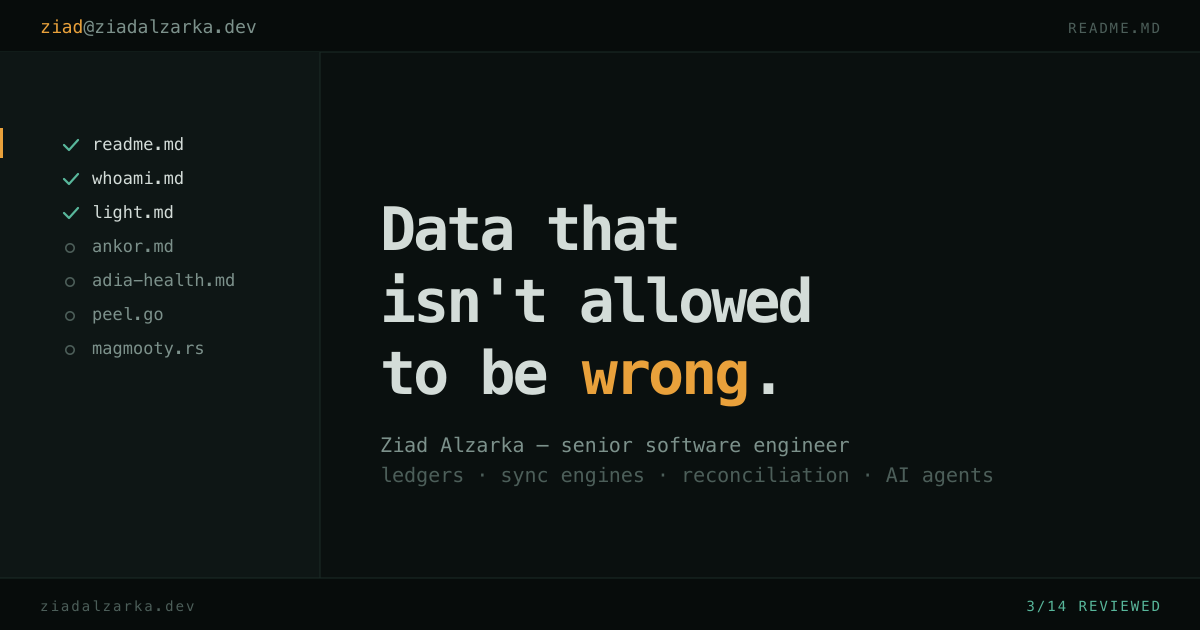
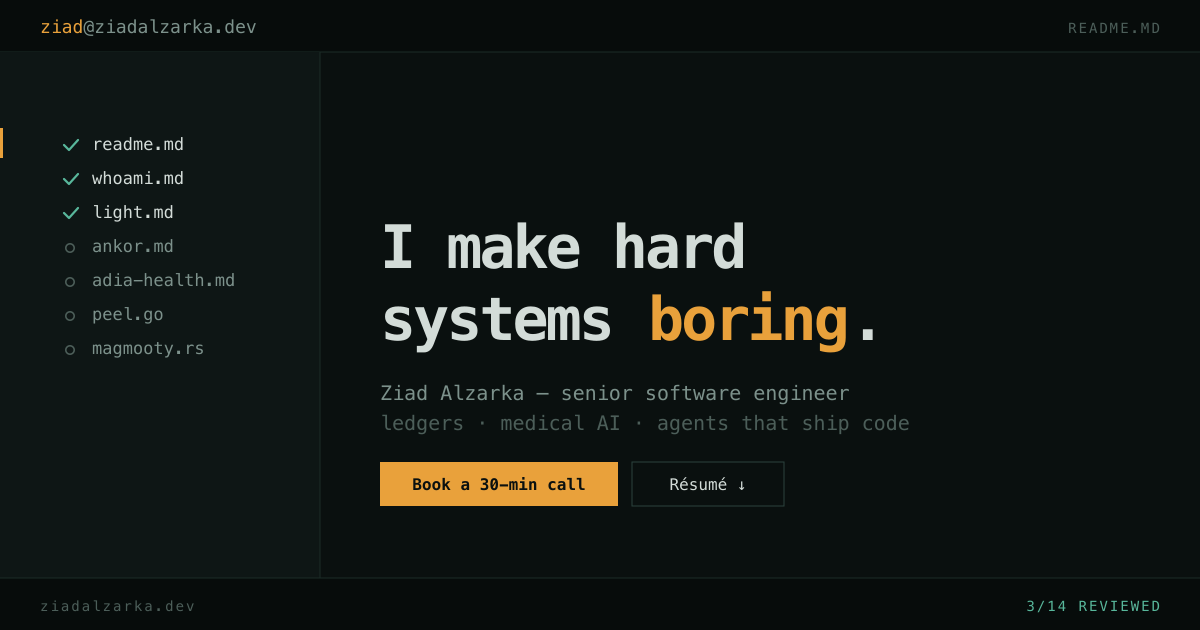
Lead with a call to action instead of a wall of text
The homepage opened on a thesis line and four paragraphs with nothing to
act on: .bar__cta was display:none above 56rem, so desktop had no call to
action, calendar link or resume button at all.

- New heading, one-sentence lede, and a button row: book a call, download
  the resume, email. b and r drive the first two from the keyboard.
- Resume and booking chips now sit in the top bar on desktop and in the
  fixed bottom bar on mobile, so the CTA never scrolls away.
- Drop the per-section bottom border, which doubled the rule already built
  into each section header, and make section padding top-only so removing
  it doesn't leave the gap behind.

Changed region(s): [[0.3083, 0.3317, 0.7708, 0.8143], [0.7708, 0.7238, 0.8017, 0.7841]]

diff --git a/src/styles/global.css b/src/styles/global.css
@@ -363,13 +363,11 @@ kbd {
 }
 
 .doc {
-  padding: clamp(2rem, 6vh, 3.75rem) 0;
-  border-bottom: 1px solid var(--line);
+  padding: clamp(2rem, 6vh, 3.75rem) 0 0;
   scroll-margin-top: 0;
 }
 
 .doc:last-child {
-  border-bottom: 0;
   padding-bottom: 40vh;
 }
 
@@ -552,7 +550,7 @@ kbd {
   letter-spacing: -0.055em;
   line-height: 1.03;
   color: var(--text);
-  max-width: 13ch;
+  max-width: 15ch;
   text-wrap: balance;
 }
 
@@ -572,6 +570,118 @@ kbd {
 .thesis__lede strong {
   color: var(--text);
   font-weight: 500;
+}
+
+/* ── primary actions ─────────────────────────────────────────── */
+
+.cta {
+  display: flex;
+  flex-wrap: wrap;
+  gap: 0.5rem;
+  margin-top: 1.9rem;
+}
+
+.cta__btn {
+  display: inline-flex;
+  align-items: center;
+  gap: 0.4rem;
+  padding: 0.55rem 1.05rem;
+  border: 1px solid var(--line-lit);
+  background: var(--bg-raise);
+  color: var(--text);
+  font-size: var(--step-ui);
+  text-decoration: none;
+  white-space: nowrap;
+}
+
+.cta__btn:hover {
+  border-color: var(--amber);
+  color: var(--amber);
+}
+
+.cta__btn--go {
+  background: var(--amber);
+  border-color: var(--amber);
+  color: var(--bg);
+  font-weight: 500;
+}
+
+.cta__btn--go:hover {
+  background: color-mix(in srgb, var(--amber) 82%, #fff);
+  border-color: color-mix(in srgb, var(--amber) 82%, #fff);
+  color: var(--bg);
+}
+
+.cta__btn--quiet {
+  background: none;
+  color: var(--text-dim);
+}
+
+@media (prefers-reduced-motion: no-preference) {
+  .cta__btn {
+    transition:
+      background 0.15s var(--ease),
+      border-color 0.15s var(--ease),
+      color 0.15s var(--ease);
+  }
+}
+
+.thesis__hint {
+  margin-top: 1.15rem;
+  font-size: var(--step-micro);
+  letter-spacing: 0.05em;
+  line-height: 2;
+  color: var(--text-faint);
+}
+
+.thesis__keys {
+  display: inline-block;
+  margin-left: 0.9rem;
+  white-space: nowrap;
+}
+
+/* ── bar chips ───────────────────────────────────────────────── */
+
+.chips {
+  display: flex;
+  align-items: center;
+  gap: 0.4rem;
+}
+
+.chip {
+  display: inline-flex;
+  align-items: center;
+  gap: 0.3rem;
+  padding: 0.2rem 0.65rem;
+  border: 1px solid var(--line-lit);
+  color: var(--text-dim);
+  text-decoration: none;
+  font-size: var(--step-micro);
+  letter-spacing: 0.1em;
+  text-transform: uppercase;
+  white-space: nowrap;
+}
+
+.chip:hover {
+  border-color: var(--amber);
+  color: var(--amber);
+}
+
+.chip--go {
+  background: var(--amber);
+  border-color: var(--amber);
+  color: var(--bg);
+  font-weight: 500;
+}
+
+.chip--go:hover {
+  background: color-mix(in srgb, var(--amber) 82%, #fff);
+  border-color: color-mix(in srgb, var(--amber) 82%, #fff);
+  color: var(--bg);
+}
+
+.chips--foot {
+  display: none;
 }
 
 /* ── hire / engagements ──────────────────────────────────────── */
@@ -685,27 +795,6 @@ kbd {
   letter-spacing: 0.1em;
   text-transform: uppercase;
   color: var(--text-faint);
-}
-
-/* ── live github strip ───────────────────────────────────────── */
-
-.pulse {
-  display: flex;
-  flex-wrap: wrap;
-  gap: 0.5rem 1.4rem;
-  margin-top: 1.5rem;
-  padding: 0.75rem 0.95rem;
-  border: 1px solid var(--line);
-  background: var(--bg-raise);
-  font-size: var(--step-micro);
-  letter-spacing: 0.06em;
-  color: var(--text-faint);
-  text-transform: uppercase;
-}
-
-.pulse b {
-  color: var(--jade);
-  font-weight: 500;
 }
 
 /* ── help overlay ────────────────────────────────────────────── */
@@ -918,7 +1007,13 @@ kbd {
     display: none;
   }
 
-  .bar .bar__cta {
+  /* The fixed bottom bar is the thumb-reachable action bar on a phone, so the
+     chips move there and the top bar keeps only the identity. */
+  .bar .chips--head {
+    display: none;
+  }
+
+  .bar .chips--foot {
     display: flex;
   }
 
@@ -931,28 +1026,17 @@ kbd {
     display: none;
   }
 
+  .thesis__keys {
+    display: none;
+  }
+
   .thesis {
     padding-top: 1.25rem;
   }
 
   .doc {
-    padding: 2.25rem 0;
+    padding: 2.25rem 0 0;
   }
-}
-
-.bar__cta {
-  display: none;
-  align-items: center;
-  gap: 0.45rem;
-  margin-left: auto;
-  padding: 0.4rem 0.85rem;
-  background: var(--amber);
-  color: var(--bg);
-  font-size: var(--step-ui);
-  letter-spacing: 0.02em;
-  text-transform: none;
-  text-decoration: none;
-  font-weight: 500;
 }
 
 .keymap {
@@ -1002,7 +1086,11 @@ kbd {
 }
 
 @media (max-width: 30rem) {
-  .bar__host span {
+  #crumb {
+    display: none;
+  }
+
+  .bar .counter {
     display: none;
   }
 }

diff --git a/src/scripts/tui.ts b/src/scripts/tui.ts
@@ -8,6 +8,8 @@ const search = document.getElementById('search') as HTMLFormElement;
 const searchInput = document.getElementById('search-input') as HTMLInputElement;
 const noMatch = document.getElementById('no-match')!;
 const post = document.getElementById('post') as HTMLAnchorElement;
+const book = document.getElementById('cta-book') as HTMLAnchorElement | null;
+const resume = document.getElementById('cta-resume') as HTMLAnchorElement | null;
 
 const byId = new Map(nodes.map((n) => [n.dataset.node!, n]));
 const reduced = matchMedia('(prefers-reduced-motion: reduce)');
@@ -286,6 +288,16 @@ document.addEventListener('keydown', (e) => {
     case 'p':
       e.preventDefault();
       postReview();
+      break;
+    case 'B':
+    case 'b':
+      e.preventDefault();
+      book?.click();
+      break;
+    case 'R':
+    case 'r':
+      e.preventDefault();
+      resume?.click();
       break;
   }
 });

diff --git a/src/content/docs/root/readme.md b/src/content/docs/root/readme.md
@@ -5,25 +5,9 @@ order: 0
 kind: thesis
 title: Ziad Alzarka
 treeMeta: senior software engineer
-display: "Data that isn't allowed to be wrong."
-accent: "wrong"
+display: "I make hard systems boring."
+accent: "boring"
 ---
 
-I'm a senior software engineer and systems architect. For nine years I've built data-intensive
-platforms in two domains where a wrong number is somebody's real problem: **finance** —
-double-entry ledgers, reconciliation, AP automation — and **medicine** — AI diagnosis, claims,
-and lab data pipelines.
-
-Lately a lot of my work is automating engineering itself. I founded my current team's AI
-platform: agents that take a ticket to a reviewed pull request, and a fleet of independent
-reviewers that reads every backend PR before a human does.
-
-I work remotely from Egypt, comfortably from Kotlin services and Postgres query plans down to
-Rust distributed systems.
-
-### how this page works
-
-It's a review queue. Every file you open gets marked off in the tree, the same way
-[peel](https://github.com/ziadalzarka/peel) — a diff reviewer I wrote — stages a file once
-you've read it. Press <kbd>?</kbd> for the keymap, or <kbd>P</kbd> to skip to the end and post
-your review.
+**Ziad Alzarka** — senior software engineer and systems architect. Nine years on double-entry
+ledgers, medical AI, and agent platforms that do real engineering work.
